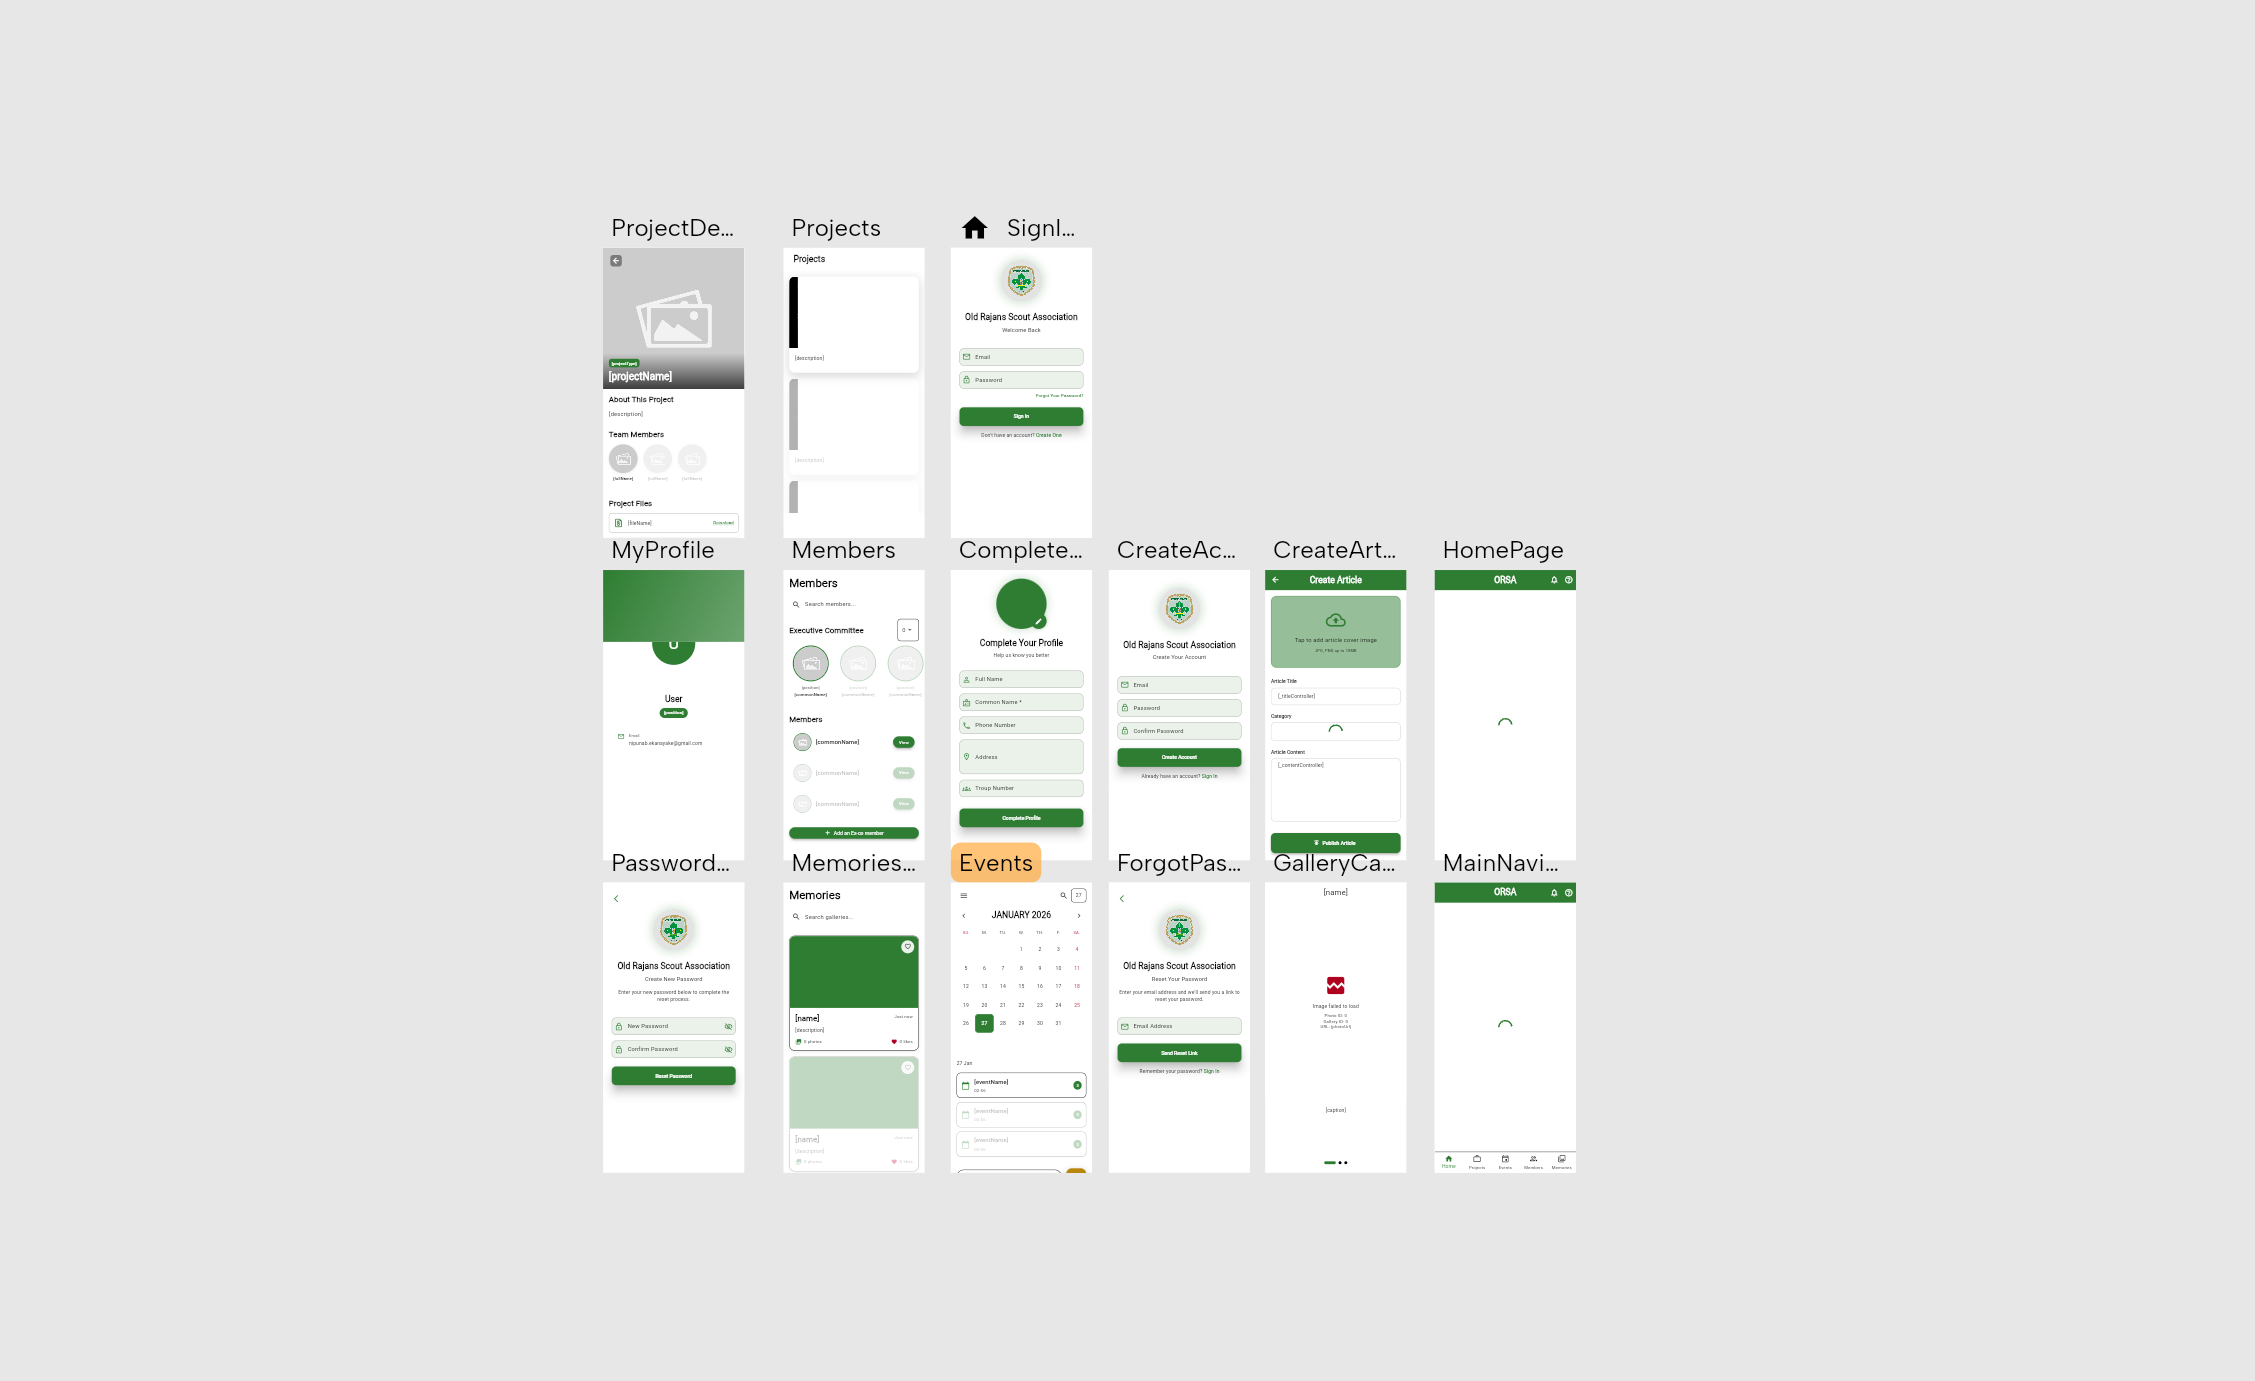
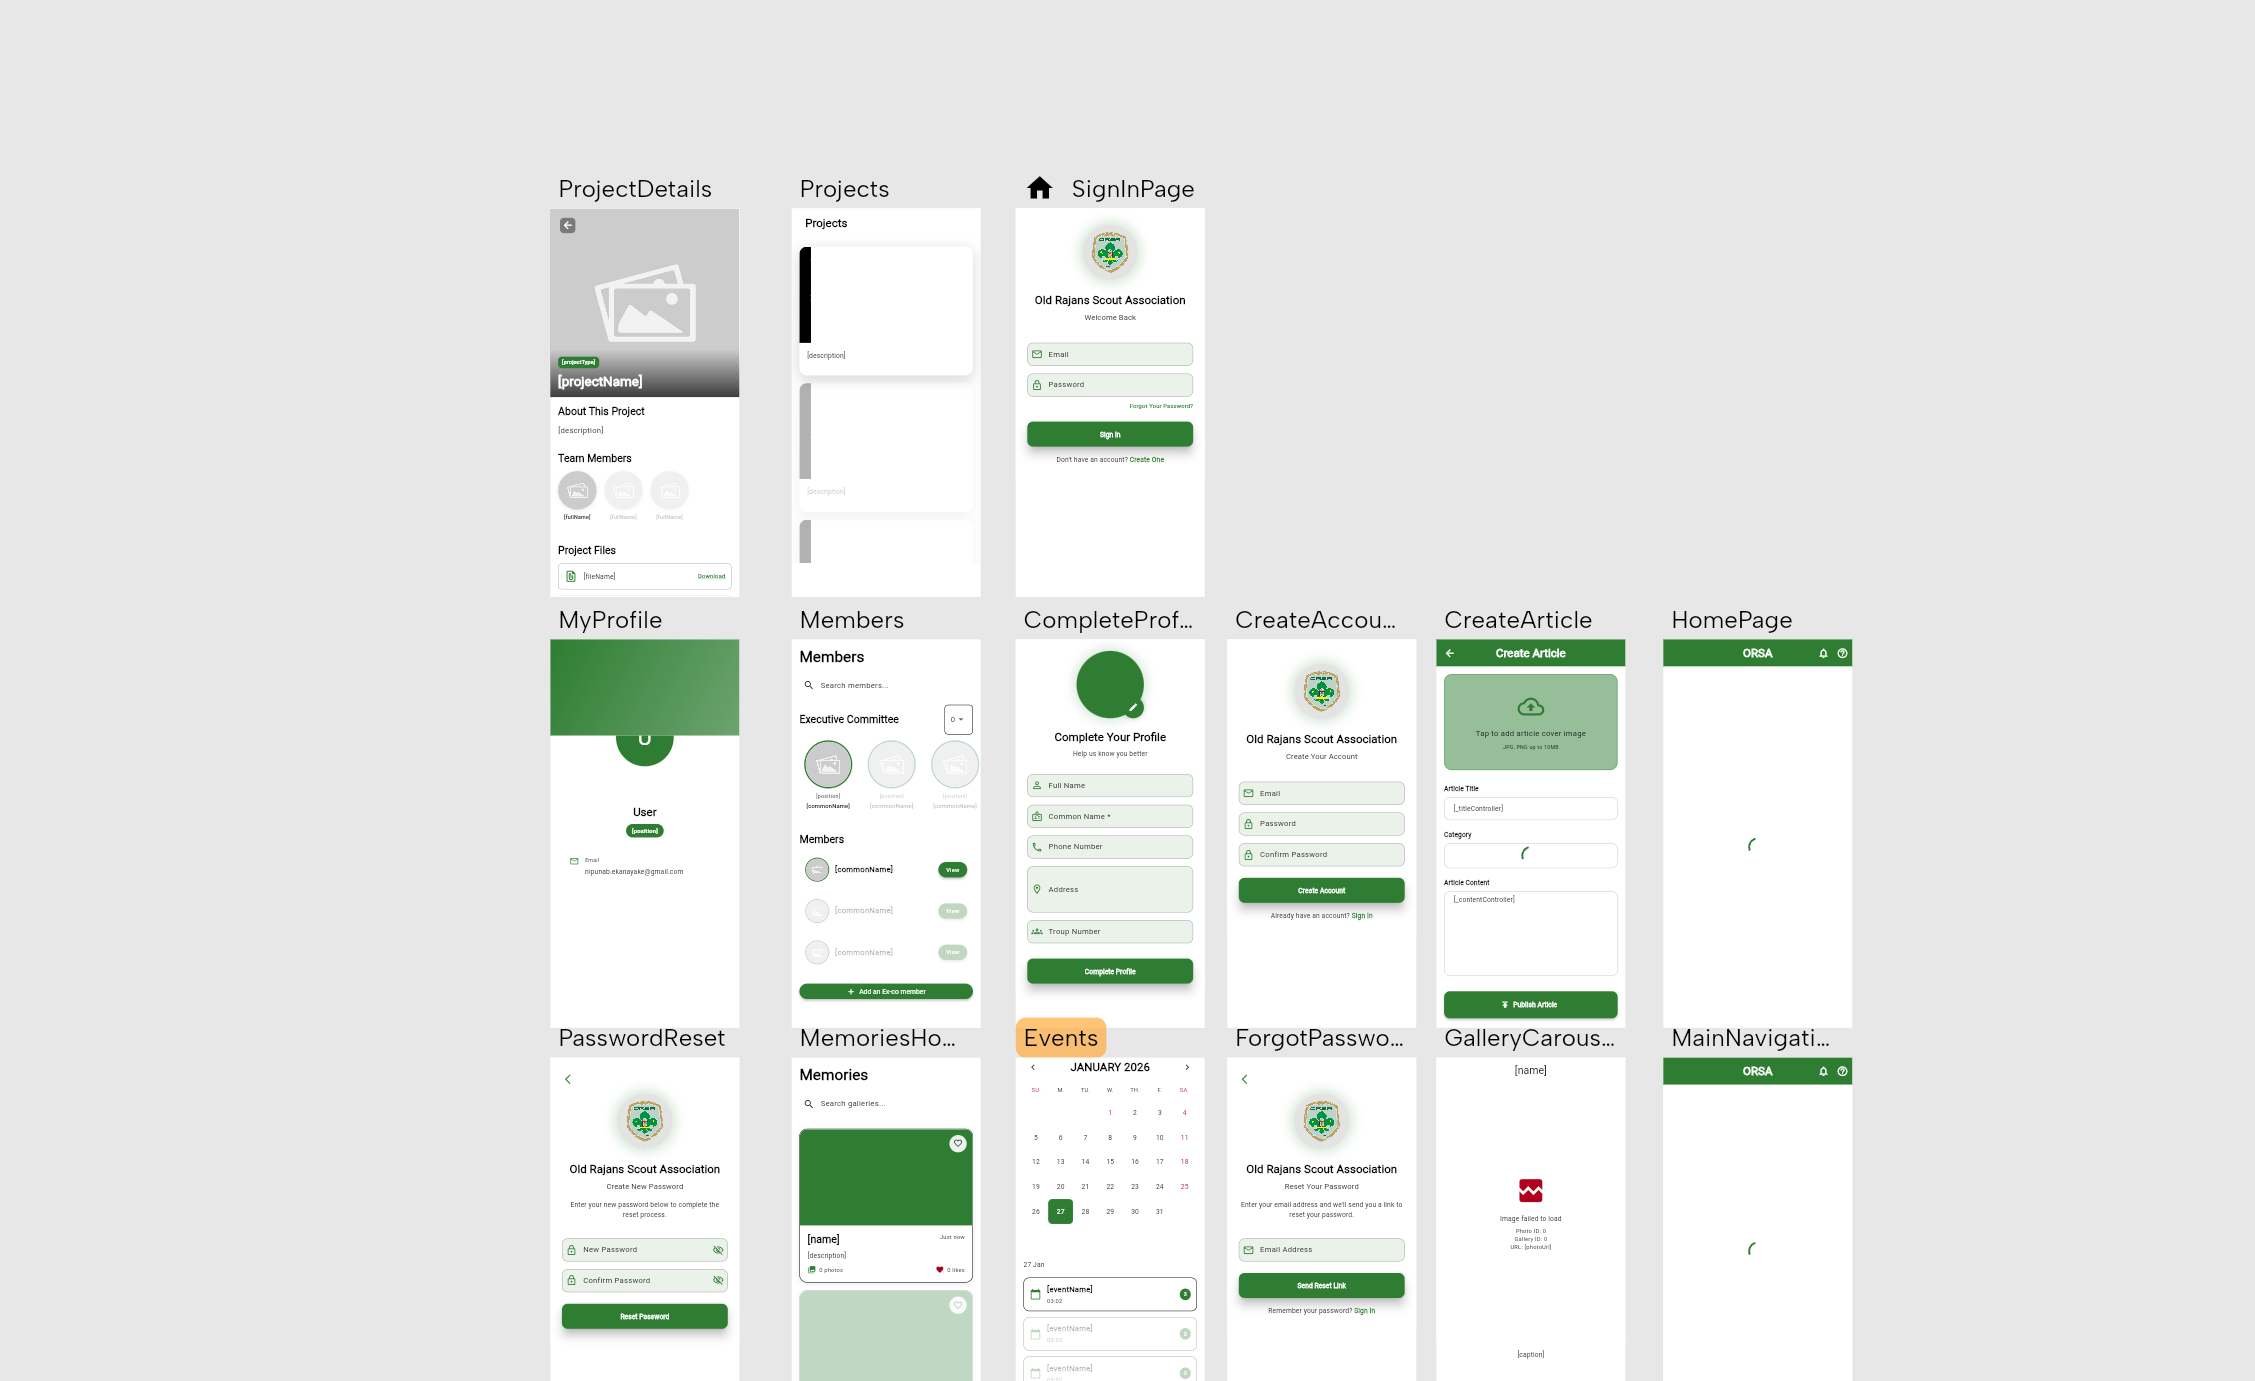
permissions done

diff --git a/lib/pages/events.dart b/lib/pages/events.dart
@@ -409,42 +409,6 @@ class _EventsState extends State<Events> {
               child: Column(
                 children: [
                   Padding(
-                    padding: const EdgeInsets.all(16),
-                    child: Row(
-                      mainAxisAlignment: MainAxisAlignment.spaceBetween,
-                      children: [
-                        IconButton(
-                          icon: const Icon(Icons.menu),
-                          onPressed: () {},
-                        ),
-                        Row(
-                          children: [
-                            IconButton(
-                              icon: const Icon(Icons.search),
-                              onPressed: () {},
-                            ),
-                            Container(
-                              padding: const EdgeInsets.symmetric(
-                                horizontal: 12,
-                                vertical: 8,
-                              ),
-                              decoration: BoxDecoration(
-                                border: Border.all(
-                                  color: Theme.of(context).colorScheme.outline,
-                                ),
-                                borderRadius: BorderRadius.circular(8),
-                              ),
-                              child: Text(
-                                '27',
-                                style: Theme.of(context).textTheme.bodyMedium,
-                              ),
-                            ),
-                          ],
-                        ),
-                      ],
-                    ),
-                  ),
-                  Padding(
                     padding: const EdgeInsets.symmetric(horizontal: 16),
                     child: Column(
                       crossAxisAlignment: CrossAxisAlignment.start,
@@ -524,39 +488,40 @@ class _EventsState extends State<Events> {
                       ),
                     ),
                   const SizedBox(height: 20),
-                  Padding(
-                    padding: const EdgeInsets.symmetric(horizontal: 16),
-                    child: Row(
-                      children: [
-                        Expanded(
-                          child: TextField(
-                            decoration: InputDecoration(
-                              hintText:
-                                  'Add event on ${_formatDateLabel(_selectedDate)}',
-                              border: OutlineInputBorder(
-                                borderRadius: BorderRadius.circular(20),
-                              ),
-                              contentPadding: const EdgeInsets.symmetric(
-                                horizontal: 20,
-                                vertical: 12,
+                  if (canCreateContent)
+                    Padding(
+                      padding: const EdgeInsets.symmetric(horizontal: 16),
+                      child: Row(
+                        children: [
+                          Expanded(
+                            child: TextField(
+                              decoration: InputDecoration(
+                                hintText:
+                                    'Add event on ${_formatDateLabel(_selectedDate)}',
+                                border: OutlineInputBorder(
+                                  borderRadius: BorderRadius.circular(20),
+                                ),
+                                contentPadding: const EdgeInsets.symmetric(
+                                  horizontal: 20,
+                                  vertical: 12,
+                                ),
                               ),
                             ),
                           ),
-                        ),
-                        const SizedBox(width: 12),
-                        FloatingActionButton(
-                          onPressed: () {},
-                          backgroundColor: Theme.of(
-                            context,
-                          ).colorScheme.secondary,
-                          child: Icon(
-                            Icons.add,
-                            color: Theme.of(context).colorScheme.onSecondary,
+                          const SizedBox(width: 12),
+                          FloatingActionButton(
+                            onPressed: () {},
+                            backgroundColor: Theme.of(
+                              context,
+                            ).colorScheme.secondary,
+                            child: Icon(
+                              Icons.add,
+                              color: Theme.of(context).colorScheme.onSecondary,
+                            ),
                           ),
-                        ),
-                      ],
+                        ],
+                      ),
                     ),
-                  ),
                   const SizedBox(height: 100),
                 ],
               ),

diff --git a/lib/pages/members.dart b/lib/pages/members.dart
@@ -614,22 +614,25 @@ class _MembersState extends State<Members> {
                 },
               ),
               const SizedBox(height: 16),
-              Padding(
-                padding: const EdgeInsets.symmetric(horizontal: 16),
-                child: SizedBox(
-                  width: double.infinity,
-                  child: ElevatedButton.icon(
-                    onPressed: () {},
-                    icon: const Icon(Icons.add),
-                    label: const Text('Add an Ex-co member'),
-                    style: ElevatedButton.styleFrom(
-                      backgroundColor: Theme.of(context).colorScheme.primary,
-                      foregroundColor: Theme.of(context).colorScheme.onPrimary,
-                      padding: const EdgeInsets.symmetric(vertical: 12),
+              if (canCreateContent)
+                Padding(
+                  padding: const EdgeInsets.symmetric(horizontal: 16),
+                  child: SizedBox(
+                    width: double.infinity,
+                    child: ElevatedButton.icon(
+                      onPressed: () {},
+                      icon: const Icon(Icons.add),
+                      label: const Text('Add an Ex-co member'),
+                      style: ElevatedButton.styleFrom(
+                        backgroundColor: Theme.of(context).colorScheme.primary,
+                        foregroundColor: Theme.of(
+                          context,
+                        ).colorScheme.onPrimary,
+                        padding: const EdgeInsets.symmetric(vertical: 12),
+                      ),
                     ),
                   ),
                 ),
-              ),
               const SizedBox(height: 100),
             ],
           ),

diff --git a/lib/pages/article_details.dart b/lib/pages/article_details.dart
@@ -488,42 +488,6 @@ class _ArticleDetailsState extends State<ArticleDetails> {
         );
       }
     }
-    return Container(
-      color: colorScheme.surface,
-      child: Column(
-        children: [
-          Container(
-            color: colorScheme.primary,
-            padding: const EdgeInsets.symmetric(horizontal: 16, vertical: 12),
-            child: Row(
-              children: [
-                GestureDetector(
-                  onTap: () => Navigator.pop(context),
-                  child: Icon(
-                    Icons.arrow_back_ios,
-                    color: colorScheme.onPrimary,
-                    size: 20,
-                  ),
-                ),
-                const SizedBox(width: 16),
-                Expanded(
-                  child: Text(
-                    'විපසරණ',
-                    style: textTheme.headlineSmall?.copyWith(
-                      color: colorScheme.onPrimary,
-                      fontWeight: FontWeight.bold,
-                    ),
-                  ),
-                ),
-              ],
-            ),
-          ),
-          Expanded(child: bodyContent),
-        ],
-      ),
-    );
-    ;
-    ;
-    ;
+    return Container(color: colorScheme.surface, child: bodyContent);
   }
 }
